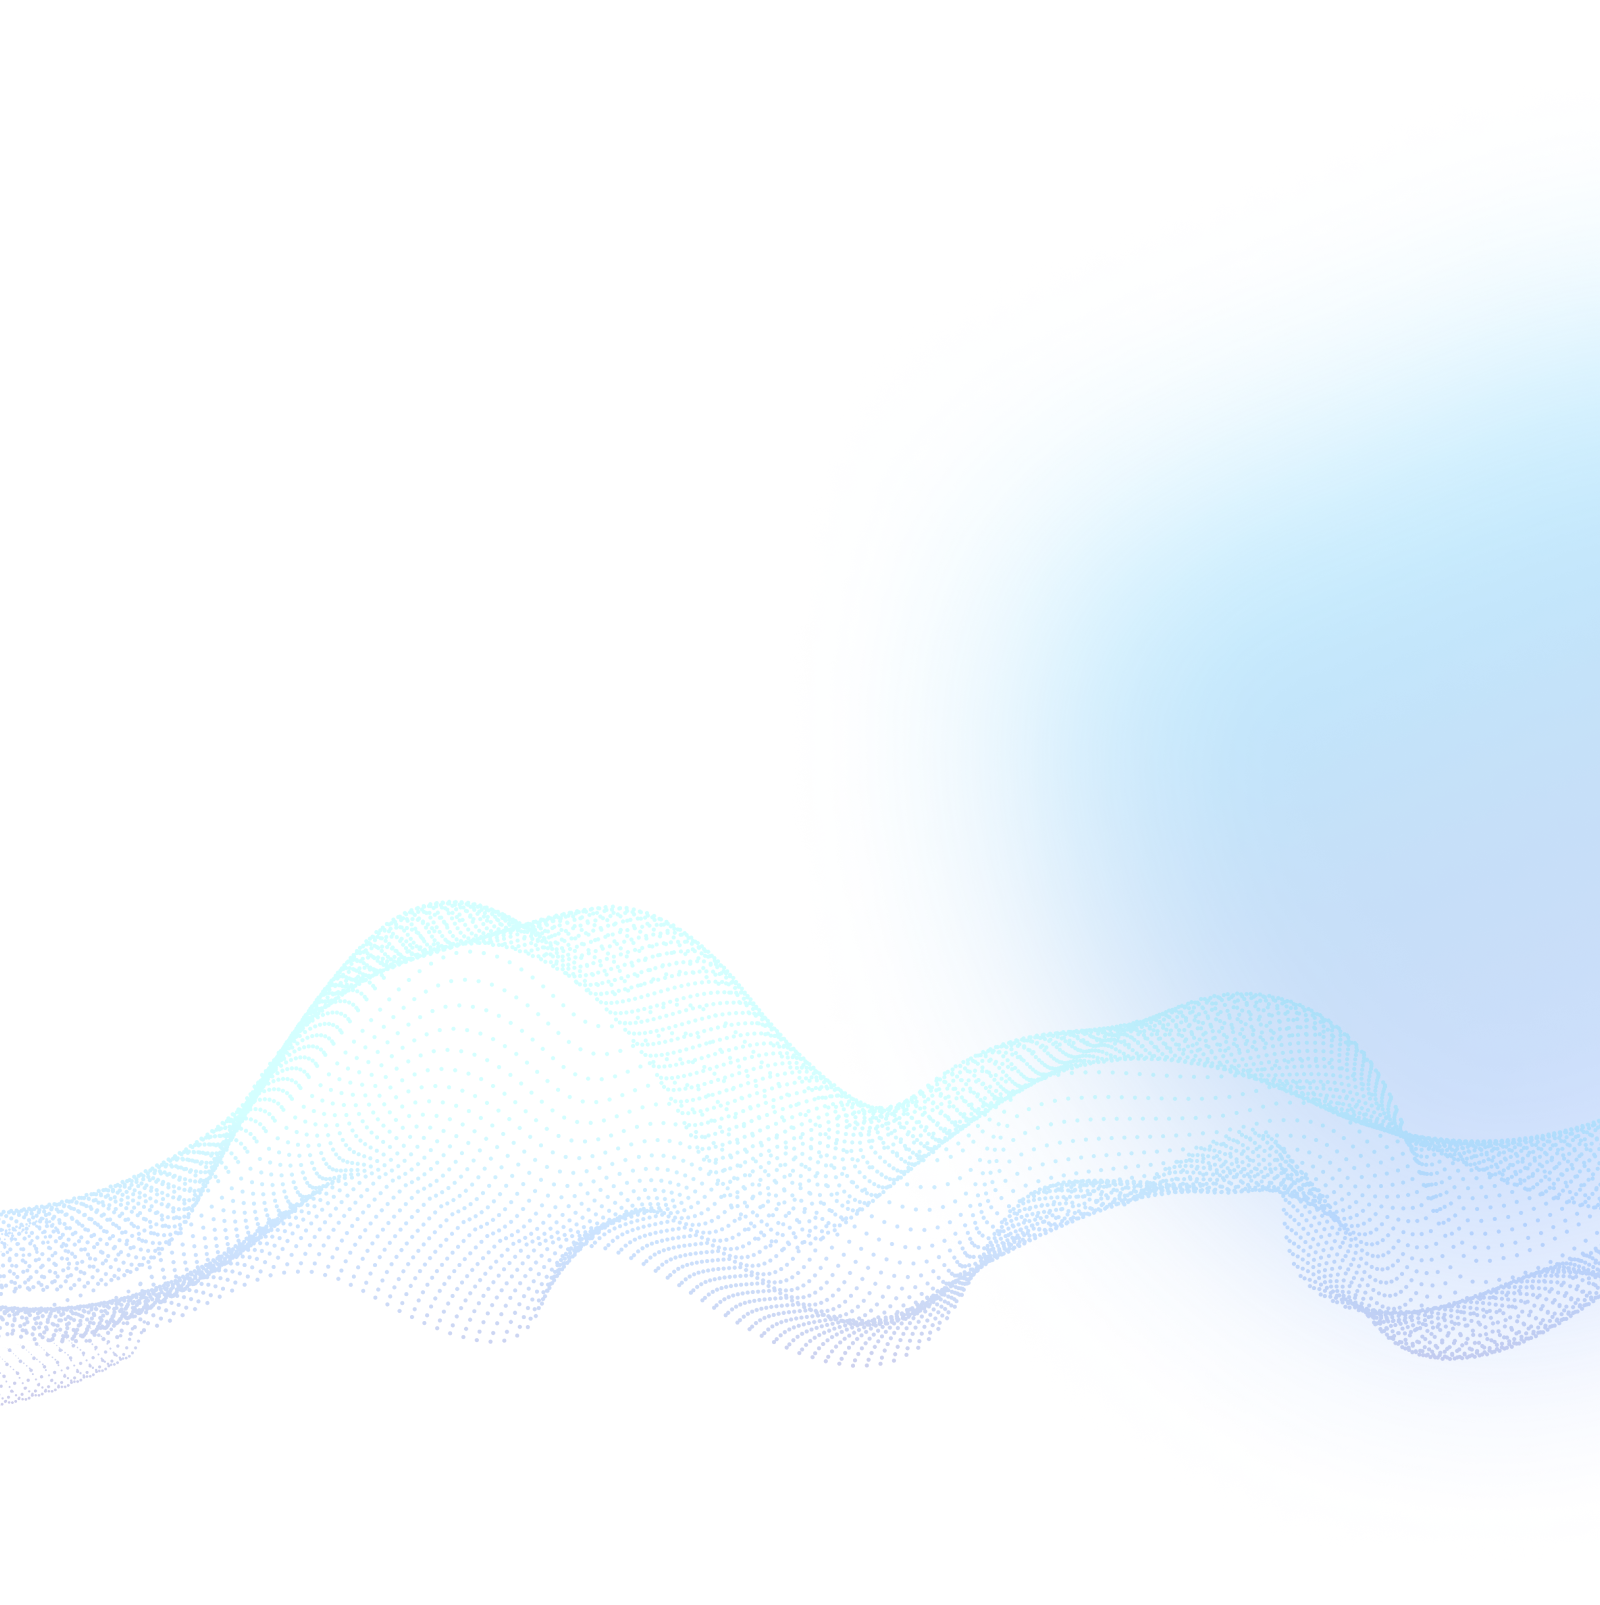
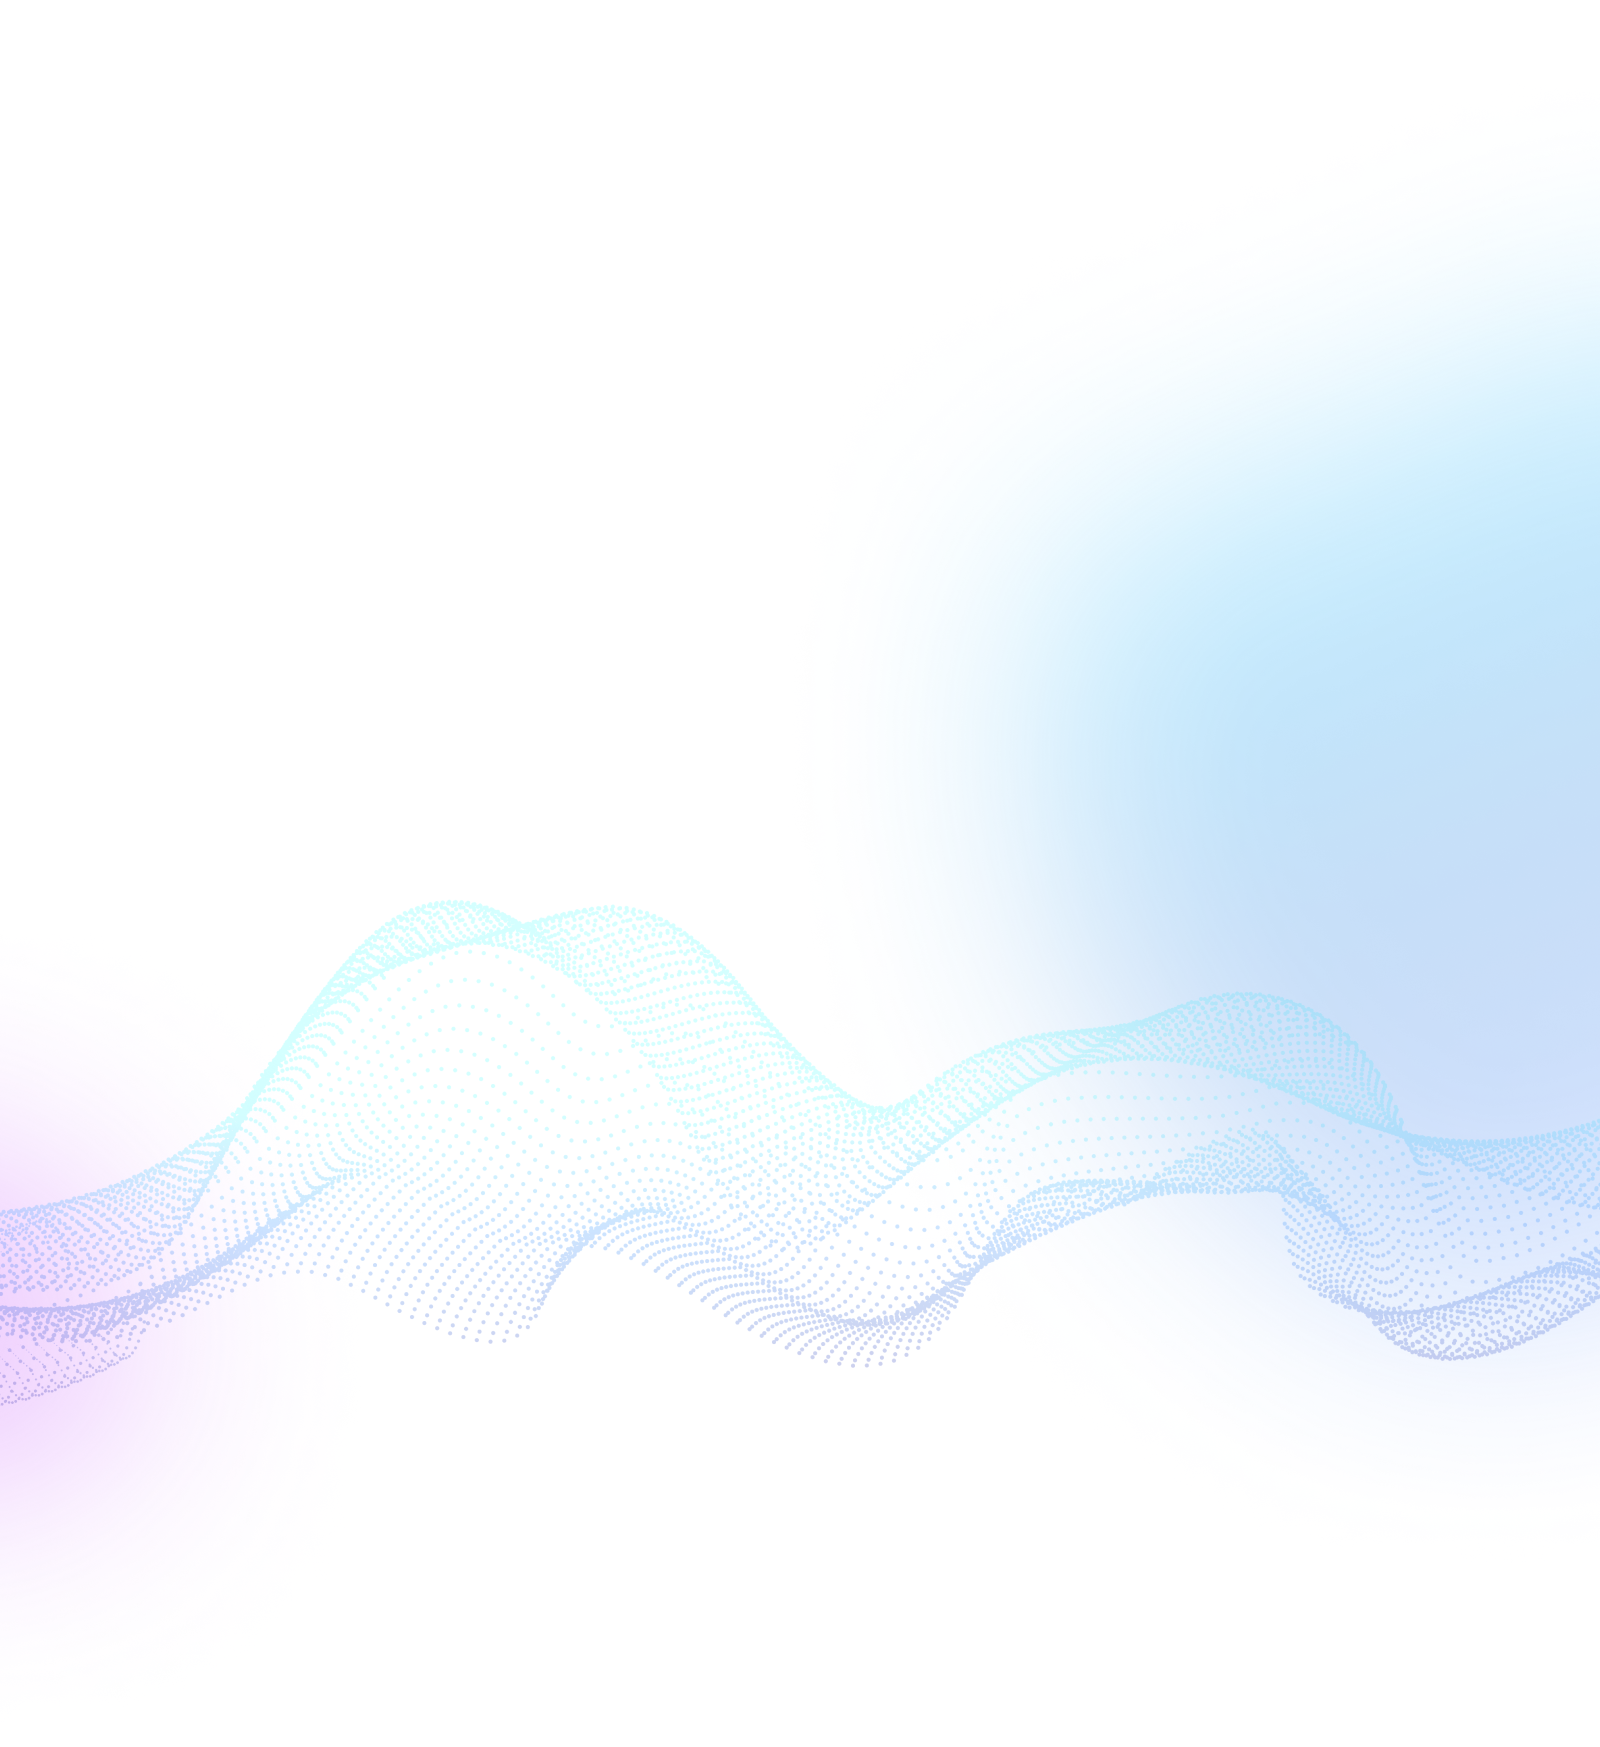
Update bg FAQ

Changed region(s): [[0.0, 0.4984, 1.0, 0.8723]]

diff --git a/pages/index.tsx b/pages/index.tsx
@@ -38,6 +38,5 @@ const DarkBg = styled.div`
   background-image: url('/images/faq/bg.png');
   background-position: center;
   background-size: 100% 100%;
-  background-color: ${({ theme }) => theme.mainDark2};
-  background-blend-mode: luminosity;
+  background-color: ${({ theme }) => theme.mainDark};
 `
